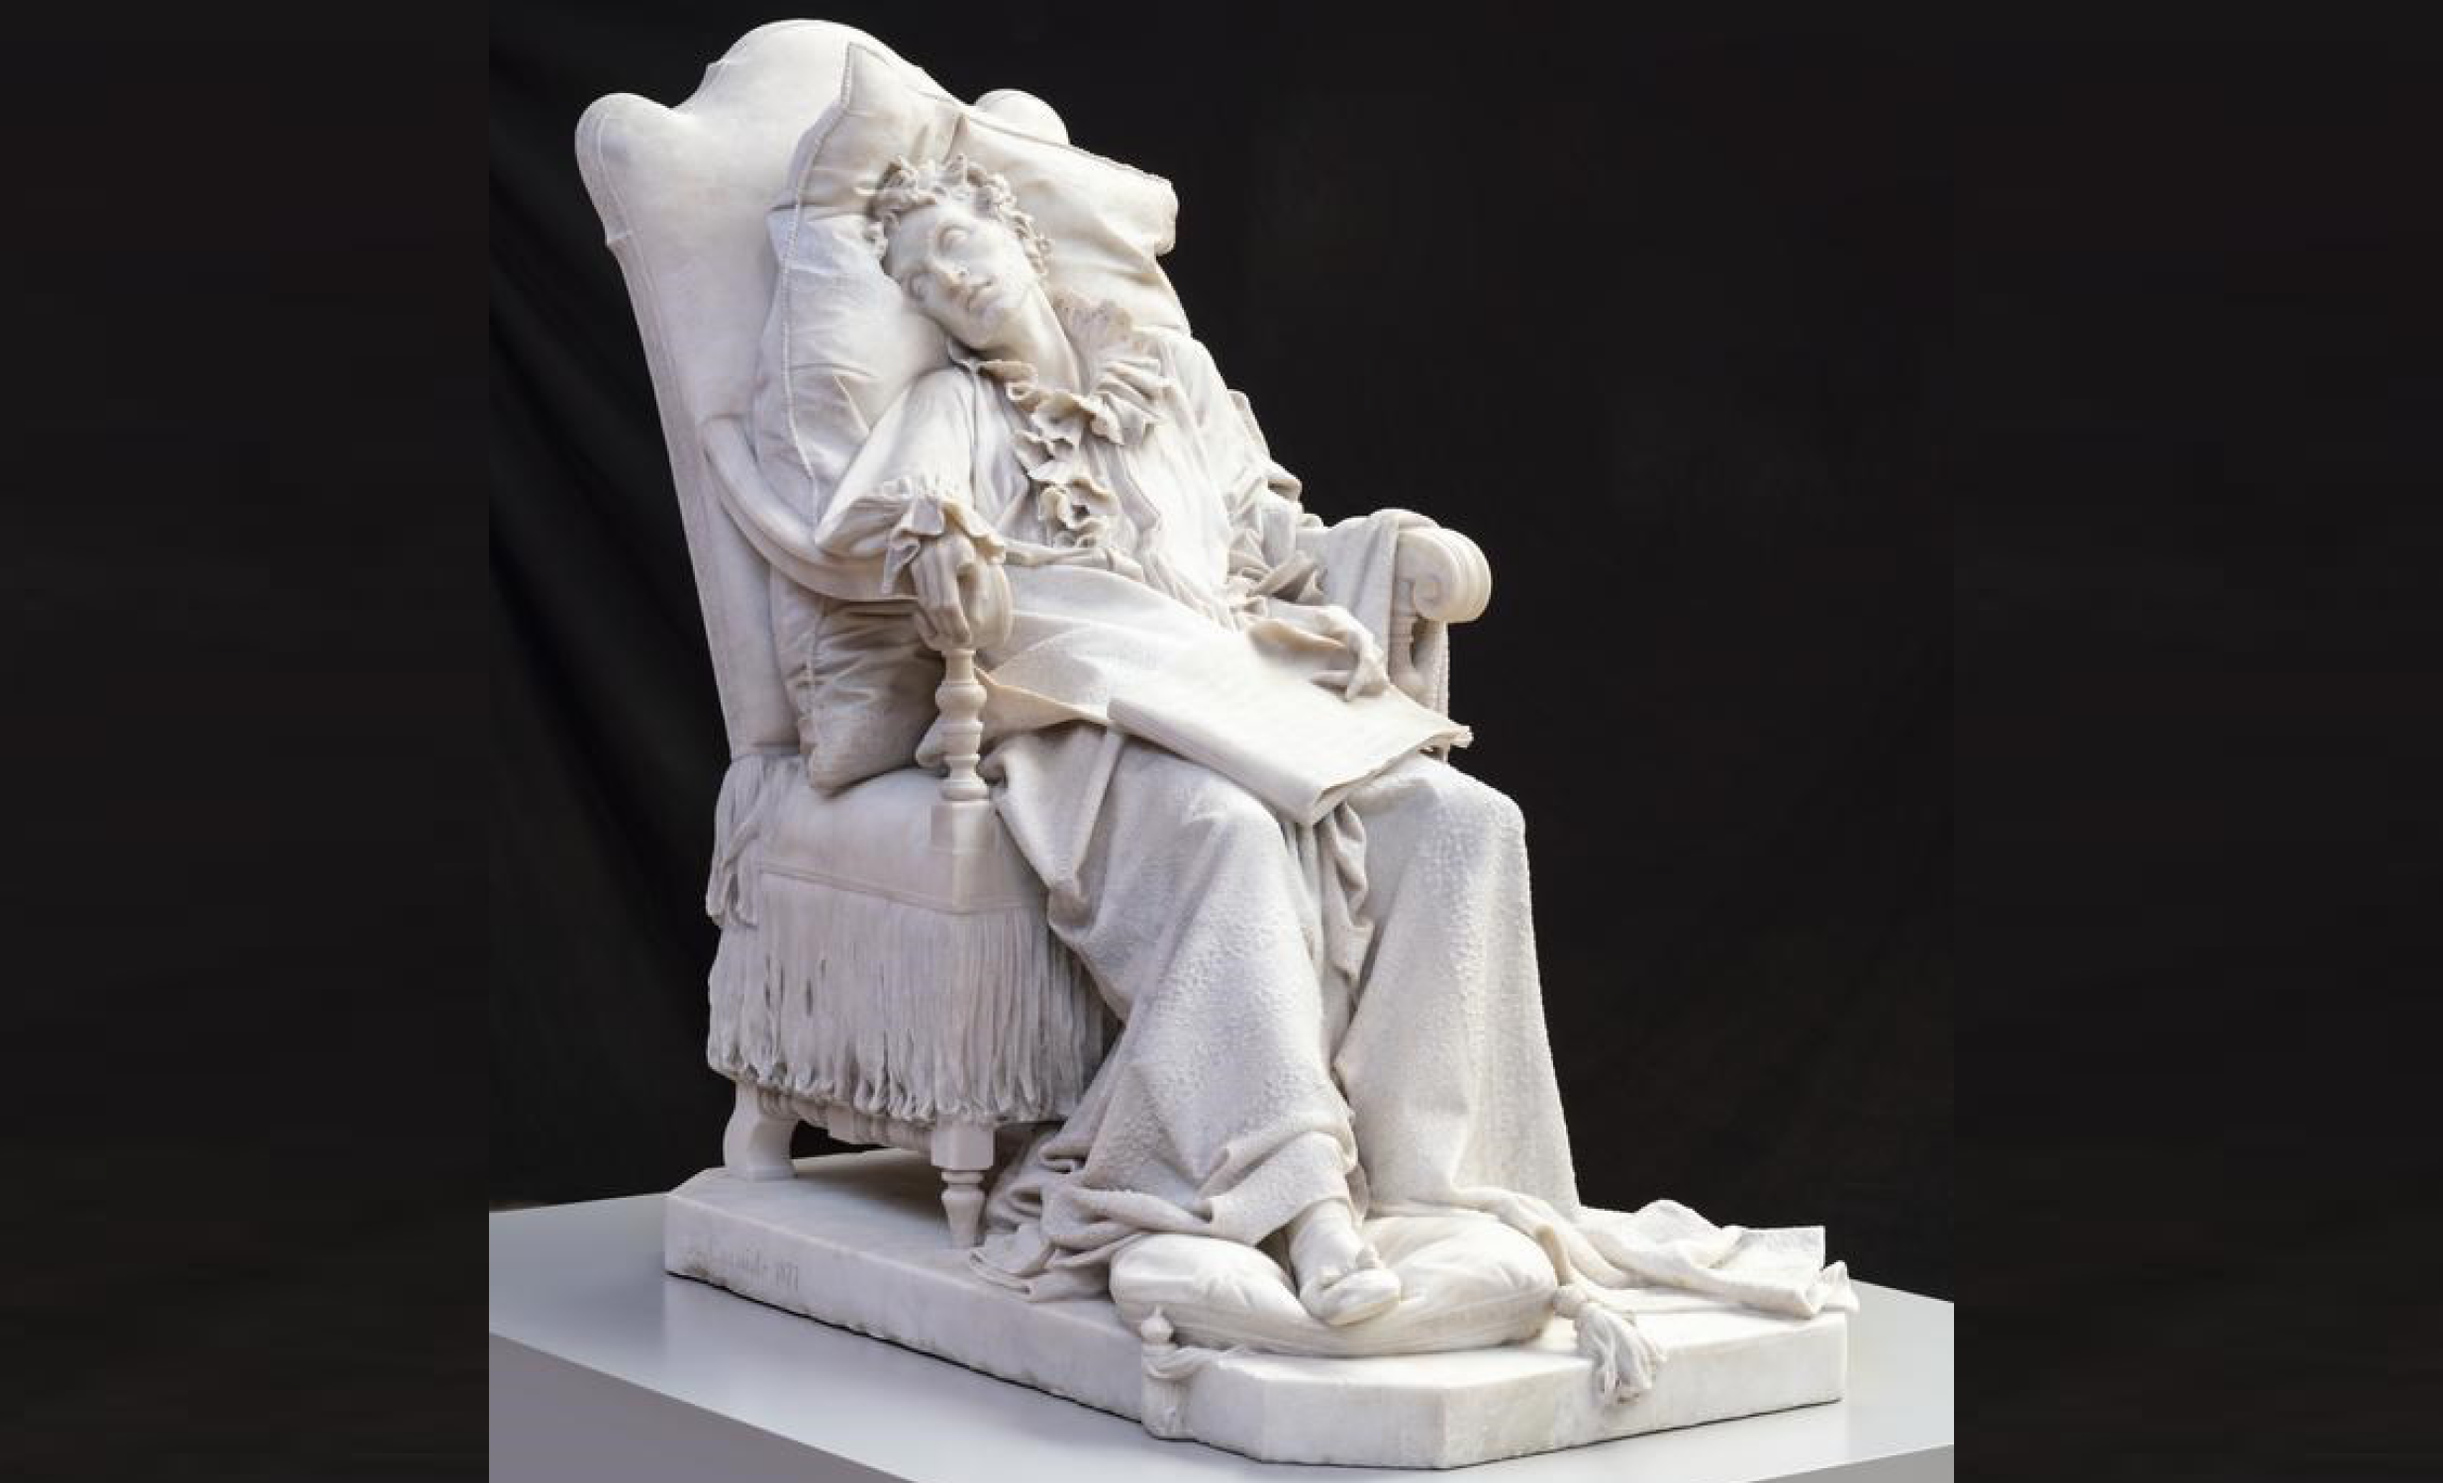
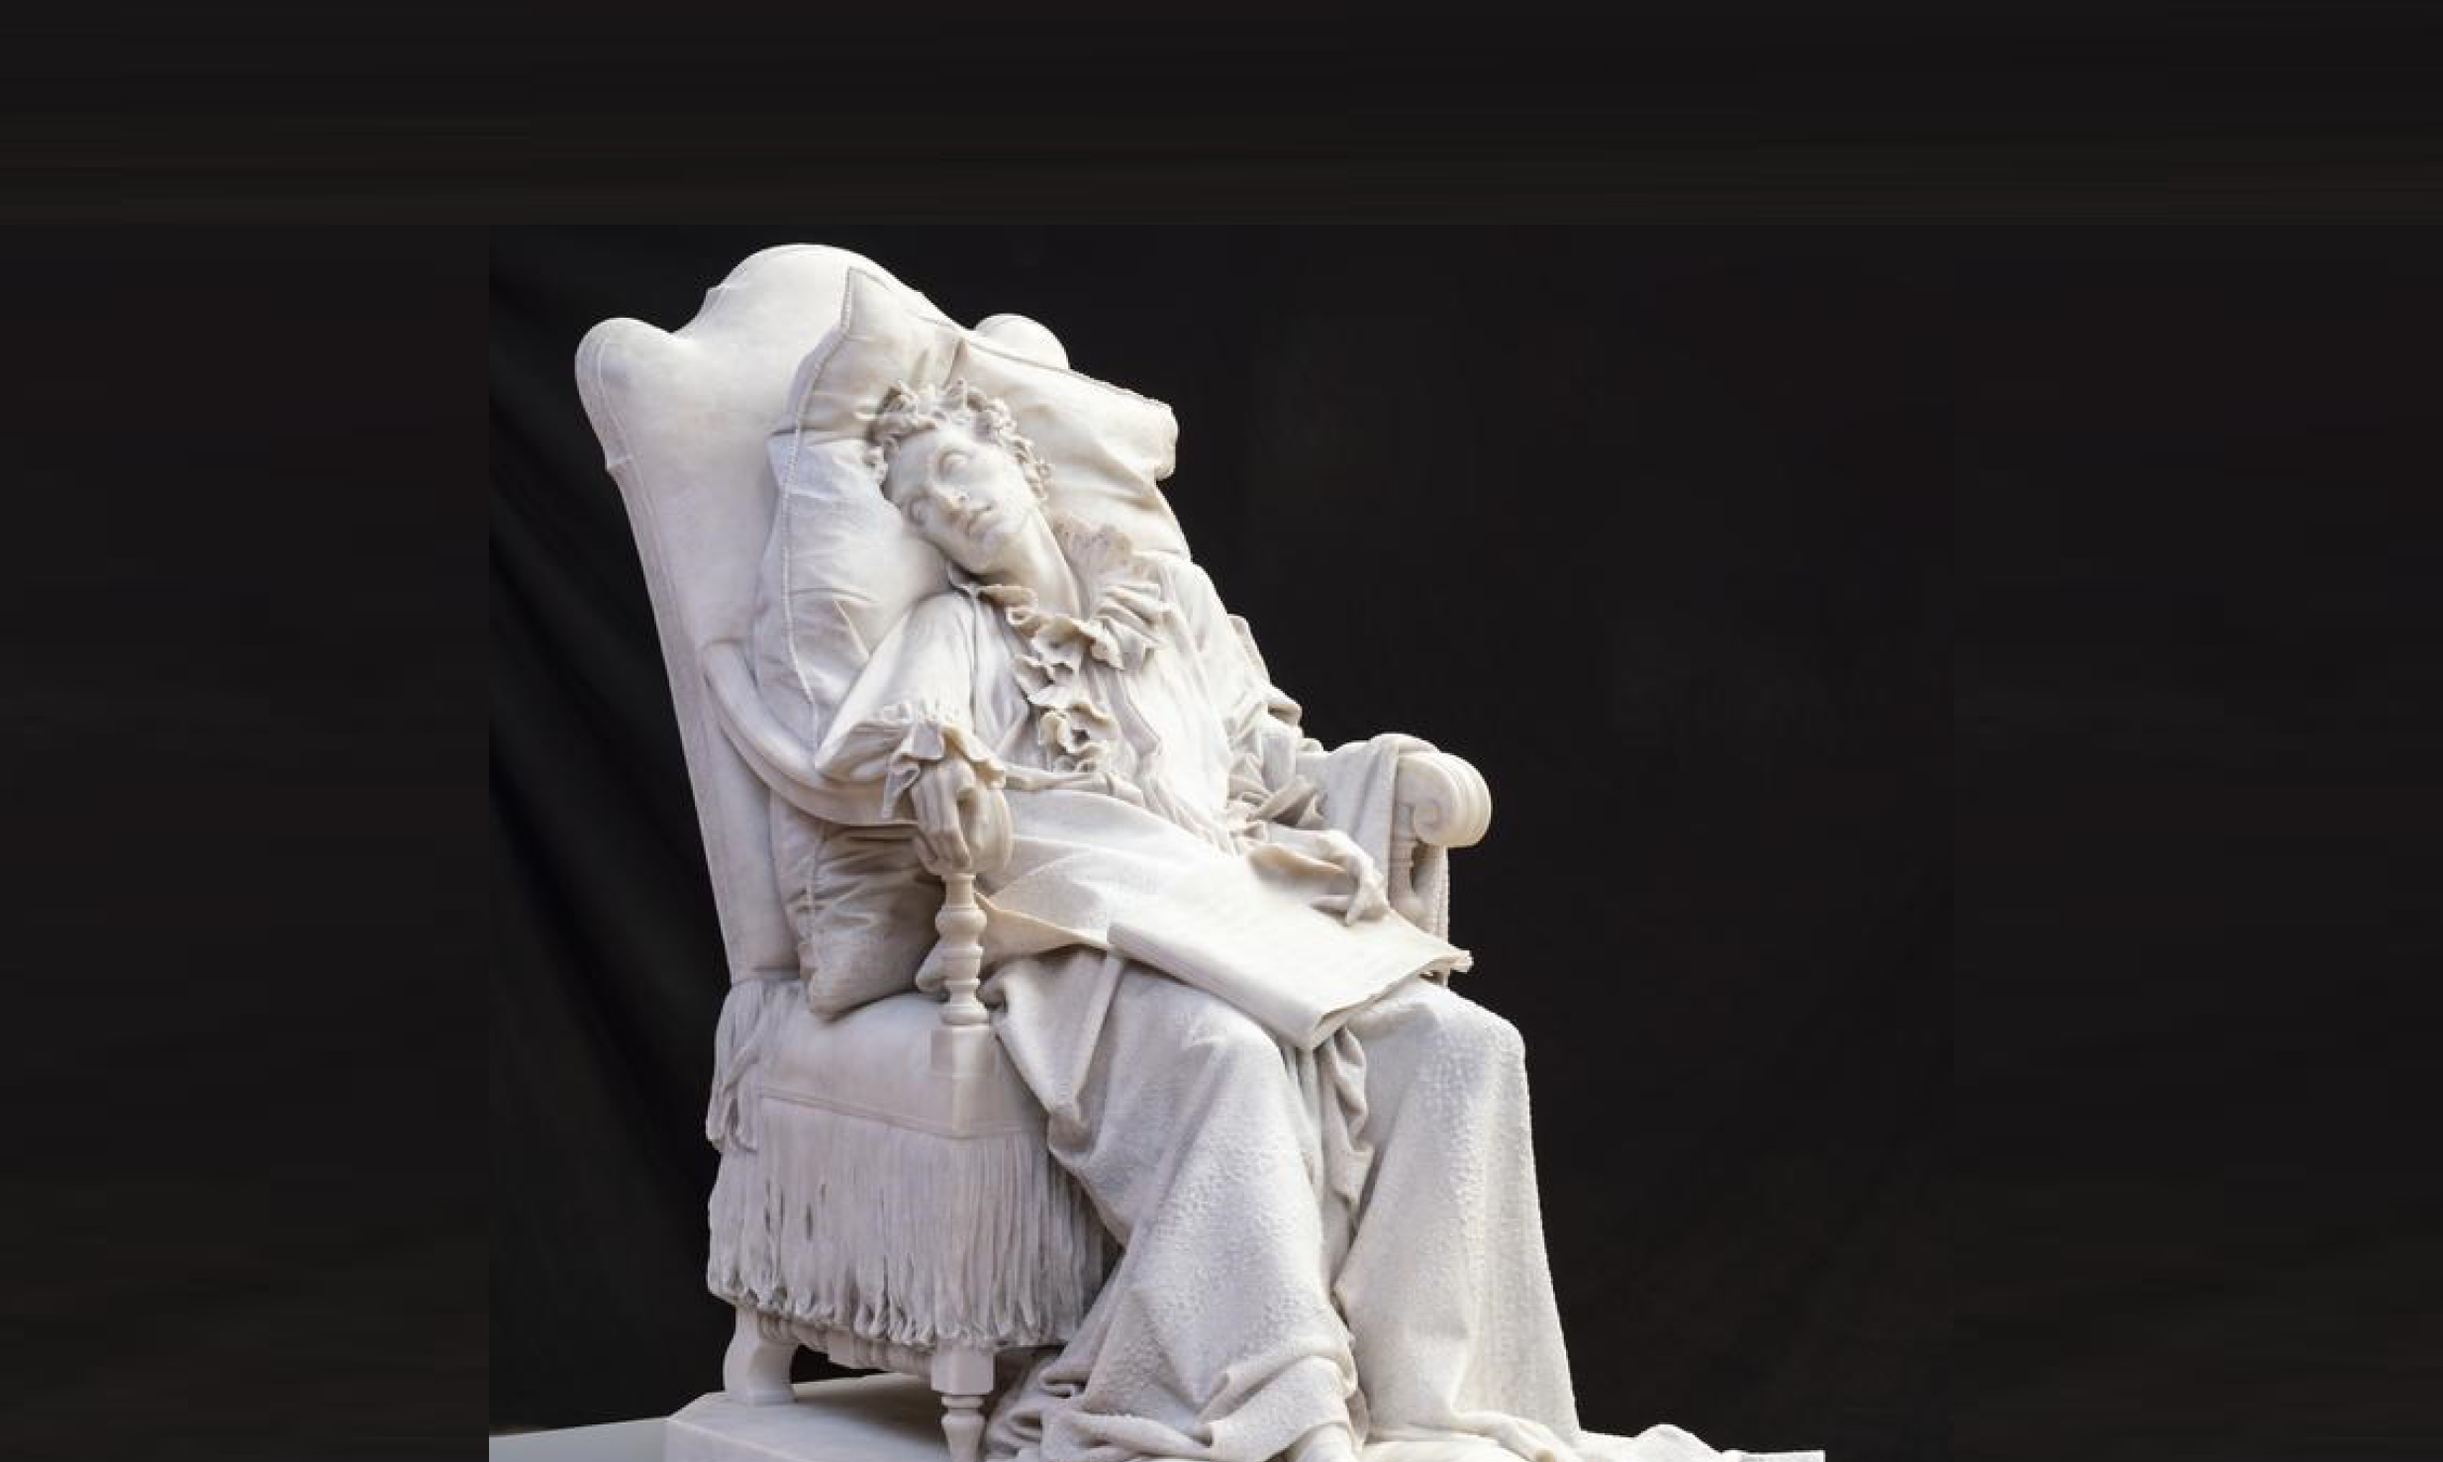
Dialogue styles V1

Changed region(s): [[0.1872, 0.0, 0.8112, 1.0]]

diff --git a/src/pages/chapitres/intro/2.jsx b/src/pages/chapitres/intro/2.jsx
@@ -24,23 +24,26 @@ function Page3(){
     return(
         <>  
             <section className="page">
-                <img className="tableau" src='../../lincendie-du-steamer-austria.png' alt='Tableau : incendie-du-steamer-austria'></img>
-                <Dialogue setIsLastPhrase={setIsLastPhrase}   dialogue="
-                    :Matelot : Le pont est en feu !/ 
+                <section className='dialogue'>
+                    <section className='cadre'>
+                        <img className="tableau" src='../../lincendie-du-steamer-austria.png' alt='Tableau : incendie-du-steamer-austria'></img>
+                    </section>
+                    <Dialogue setIsLastPhrase={setIsLastPhrase}   dialogue="
+                        :Matelot : Le pont est en feu !/ 
 
-                    :Capitaine : Jetez les canaux à l’eau ! Les femmes et les enfants d’abord !/
+                        :Capitaine : Jetez les canaux à l’eau ! Les femmes et les enfants d’abord !/
 
-                    :Matelot : Capitaine, le feu se propage !/ 
+                        :Matelot : Capitaine, le feu se propage !/ 
 
-                    :Capitaine : Éteignez-moi ce feu !/
+                        :Capitaine : Éteignez-moi ce feu !/
 
-                    :Capitaine : Il nous faut plus de monde pour nous aider !!!/
+                        :Capitaine : Il nous faut plus de monde pour nous aider !!!/
 
-                    :Capitaine : Toi là bas !/
+                        :Capitaine : Toi là bas !/
 
-                    :Capitaine : Que est ton nom ?
-                "></Dialogue>
-                
+                        :Capitaine : Que est ton nom ?
+                    "></Dialogue>
+                </section>
 
                 <section className={(isLastPhrase ? "wrapper" : `${"wrapper"} ${"hidden"}`)}>
                     <label htmlFor="nom">Nom</label>

diff --git a/src/app/styles/dialoguePage.css b/src/app/styles/dialoguePage.css
@@ -3,9 +3,23 @@
     src: url("../../../public/JMHTypewriterDry.otf");
 }
 
-html, body{
+@font-face {
+    font-family: "Typewriter";
+    src: url("../../../public/JMHTypewriterDry.otf");
+}
+
+body{
     margin: 0;
+    overflow: hidden;
     font-family: 'Typewriter';
+    font-size: 18px;
+    background-image: url("../../../public/lincendie-du-steamer-austria.png");
+    backdrop-filter: blur(4px);
+    background-repeat: no-repeat;
+    background-position-x: 15%;
+    background-size: cover;
+    box-shadow: inset 0 0 0 1000px rgb(0 0 0 / 51%);
+    background-color: black;
 }
 
 .page{
@@ -14,6 +28,7 @@ html, body{
     align-items: center;
     justify-content: space-between;
     height: 100vh;
+    overflow: hidden;
 }
 
 .hidden{
@@ -21,5 +36,49 @@ html, body{
 }
 
 .tableau{
-    width: 80vw;
+    position: relative;
+    transform: rotate(359deg);
+    height: 67vh;
+    top: -103px;
+    left: 5rem;
+}
+
+.cadre{
+    overflow: hidden;
+    position: relative;
+    width: 90vw;
+    max-width: 370px;
+    height: 30vh;
+    display: flex;
+    justify-content: center;
+    transform: rotate(5deg);
+    border: solid;
+    border-width: 0.5rem;
+    border-color: white;
+    margin-bottom: 5rem;
+    box-shadow: 4px 16px 20px 8px rgb(0 0 0 / 51%);
+}
+
+button{
+    background-image: url("../../../public/button1.svg");
+    background-color: transparent;
+    background-repeat: no-repeat;
+    background-position: center;
+    border-radius: 0%;
+    border-width: 0;
+    min-width: 5rem;
+    min-height: 3rem;
+}
+
+a{
+    color: black;
+    text-decoration: none;
+    font-family: 'Typewriter';
+    margin-top: 2rem;
+    margin: 2rem;
+
+}
+
+.dialogue{
+    width: 100%;
 }

diff --git a/src/app/components/Dialogues.js b/src/app/components/Dialogues.js
@@ -44,10 +44,13 @@ function Dialogue(props){
 
     return(
         <>
-            <section className={styles.wrapper}>
-                <div className={ (enonciateur[idPhrase] === "Capitaine " ? `${styles.left} ` : `${styles.left} ${(styles.hidden)}`)}></div>
-                <h3 className={styles.paragraphe} onClick={handleClick}>{enonciateur[idPhrase] + " : " + phrases[idPhrase]}</h3>
-                <div className={(enonciateur[idPhrase] === "Capitaine " ? `${styles.right} ${(styles.hidden)}` : `${styles.right}`)}></div>
+            <section className={ (enonciateur[idPhrase] === "Capitaine " ? `${styles.wrapper} ${(styles.wrapperCptn)}`: `${styles.wrapper} ${(styles.wrapperPasCptn)}` )}>
+                <img className={ (enonciateur[idPhrase] === "Capitaine " ? `${styles.left} ` : `${styles.left} ${(styles.hidden)}`)} src='../../capitaine.png'></img>
+                <div className={ (enonciateur[idPhrase] === "Capitaine " ? `${styles.bulleWrapper} ${(styles.m4Rem)}` : `${styles.bulleWrapper} `)}>
+                    <img className={styles.bulle} src=""></img>
+                    <h3 className={styles.paragraphe} onClick={handleClick}>{phrases[idPhrase]}</h3>
+                </div>
+                <img className={(enonciateur[idPhrase] === "Capitaine " ? `${styles.right} ${(styles.hidden)}` : `${styles.right}`)} src={( enonciateur[idPhrase] === "Matelot "? '../../matelot.png' : ( enonciateur[idPhrase] === "Duchesse "? '../../duchesse.png' : ( enonciateur[idPhrase] === "Titien " ? '../../Titien.png' : '../../Mozart.png')))}></img>
             </section>
         </>
         

diff --git a/src/pages/chapitres/chapter3/1.jsx b/src/pages/chapitres/chapter3/1.jsx
@@ -1,7 +1,7 @@
 import { useState } from 'react';
 import Link from "next/link"
 import Dialogue from '../../../app/components/Dialogues'
-import '../../../app/styles/dialoguePage.css'
+import '../../../app/styles/directionPage.css'
 import Guide from '../../../app/components/Guides'
 import Choix from '../../../app/components/Choix'
 
@@ -15,8 +15,10 @@ function Page16(){
             <section className="page">
                 <Guide contenu="Dirigez-vous vers “CHARLES QUINT RAMASSANT LE PINCEAU DE TITIEN”, le capitaine en a besoin.."></Guide>
 
-                <img className="tableau" src='../../charles-quint-ramassant-le-pinceau-de-titien.png' alt='Tableau : charles-quint-ramassant-le-pinceau-de-titien'></img>
-                
+                <section className='cadre'>
+                    <img className="tableau" src='../../charles-quint-ramassant-le-pinceau-de-titien.png' alt='Tableau : charles-quint-ramassant-le-pinceau-de-titien'></img>
+                </section>
+
                 <Choix shown={true}
                     contenus="J'y suis"
                     liens={[

diff --git a/src/pages/chapitres/chapter4/1.jsx b/src/pages/chapitres/chapter4/1.jsx
@@ -1,7 +1,7 @@
 import { useState } from 'react';
 import Link from "next/link"
 import Dialogue from '../../../app/components/Dialogues'
-import '../../../app/styles/dialoguePage.css'
+import '../../../app/styles/directionPage.css'
 import Guide from '../../../app/components/Guides'
 import Choix from '../../../app/components/Choix'
 
@@ -14,9 +14,11 @@ function Page21(){
         <>  
             <section className="page">
                 <Guide contenu="Dirigez-vous vers le tableau “L’INCENDIE DU STEAMER AUSTRIA”"></Guide>
-
-                <img className="tableau" src='../../lincendie-du-steamer-austria.png' alt='Tableau : l incendie du steamer austria'></img>
                 
+                <section className='cadre'>
+                    <img className="tableau" src='../../lincendie-du-steamer-austria.png' alt='Tableau : l incendie du steamer austria'></img>
+                </section>
+
                 <Choix shown={true}
                     contenus="J'y suis"
                     liens={[

diff --git a/src/app/styles/components/dialogues.module.css b/src/app/styles/components/dialogues.module.css
@@ -1,28 +1,57 @@
 .paragraphe{
-    width: 20rem;
-    height: 10rem;
-    display: flex;
     text-align: center;
     align-items: center;
     justify-content: center;
+    margin: 0;
+    padding-top: 25px;
+    padding-bottom: 25px;
+    padding-left: 10px;
+    padding-right: 10px;
+    background-color: #FBF8F8;
+    font-size: 14px;
+    min-width: 190px;
+    width: 5rem;
+    
+}
+
+.wrapperPasCptn{
+    padding-left: 2rem;
+}
+
+.wrapperCptn{
+    position: relative;
+    left: -1rem;
 }
 
 .wrapper{
     display: flex;
     flex-direction: row;
     align-items: center;
+    width: 100%;
+}
+
+.bulleWrapper{
+    position: relative;
+}
+
+.bulle{
+
+}
+
+.m4Rem{
+    position: relative;
+    left: -3.5rem;
 }
 
 .left{
-    background-color: aqua;
-    width: 3rem;
-    height: 10rem;
+    position: relative;
+    z-index: 1;
 }
 
 .right{
-    background-color: blueviolet;
-    width: 3rem;
-    height: 10rem;
+    position: relative;
+    z-index: 1;
+    left: -1.5rem;
 }
 
 .hidden{

diff --git a/src/pages/chapitres/chapter3/5.jsx b/src/pages/chapitres/chapter3/5.jsx
@@ -23,7 +23,7 @@ function Page20(){
     return(
         <>  
             <section className="page">
-            <img className="tableau" src='../../mozart-expirant.png' alt='Statue : Mozart Expirant'></img>
+            <img className="tableau" src='../../charles-quint-ramassant-le-pinceau-de-titien.png' alt='Statue : Mozart Expirant'></img>
                 <Dialogue setIsLastPhrase={setIsLastPhrase}   dialogue={":Titien : MAGNIFICO !!!/ :Titien : C’est le plus de tous les tableaux que je n’ai jamais vu !! Prends mon pinceau, tu en es digne !/ :Capitaine : " + prenom + " ! T'as récupéré le pinceau ? Parfait !/ :Capitaine : On a tout ce qu'il faut, ramène toi au navire !"}></Dialogue>
                 
                 <Choix shown={isLastPhrase}

diff --git a/src/pages/chapitres/chapter3/2.jsx b/src/pages/chapitres/chapter3/2.jsx
@@ -13,7 +13,7 @@ function Page17(){
     return(
         <>  
             <section className="page">
-            <img className="tableau" src='../../mozart-expirant.png' alt='Statue : Mozart Expirant'></img>
+            <img className="tableau" src='../../charles-quint-ramassant-le-pinceau-de-titien.png' alt='Statue : Mozart Expirant'></img>
                 <Dialogue setIsLastPhrase={setIsLastPhrase}   dialogue="
                     :Titien : Je sais ! C’est pour mon spazzola que vous venez !/
                     

diff --git a/src/pages/chapitres/chapter3/3.jsx b/src/pages/chapitres/chapter3/3.jsx
@@ -13,7 +13,7 @@ function Page18(){
     return(
         <>  
             <section className="page">
-            <img className="tableau" src='../../mozart-expirant.png' alt='Statue : Mozart Expirant'></img>
+            <img className="tableau" src='../../charles-quint-ramassant-le-pinceau-de-titien.png' alt='Statue : Mozart Expirant'></img>
                 <Dialogue setIsLastPhrase={setIsLastPhrase}   dialogue="
                     :Titien : Mon pinceau se mérite !/
                     

diff --git a/src/pages/chapitres/chapter3/4.jsx b/src/pages/chapitres/chapter3/4.jsx
@@ -13,7 +13,7 @@ function Page19(){
     return(
         <>  
             <section className="page">
-                <img className="tableau" src='../../mozart-expirant.png' alt='Statue : Mozart Expirant'></img>
+                <img className="tableau" src='../../charles-quint-ramassant-le-pinceau-de-titien.png' alt='Statue : Mozart Expirant'></img>
                 <Guide contenu="ici ça peint"></Guide>
 
                 

diff --git a/src/app/styles/directionPage.css b/src/app/styles/directionPage.css
@@ -3,6 +3,10 @@
     src: url("../../../public/JMHTypewriterDry.otf");
 }
 
+html{
+ margin: 0;
+}
+
 body{
     margin: 0;
     overflow: hidden;
@@ -34,7 +38,7 @@ body{
     transform: rotate(359deg);
     height: 67vh;
     top: -103px;
-    left: 171px;
+    left: 5rem;
 }
 
 .cadre{
